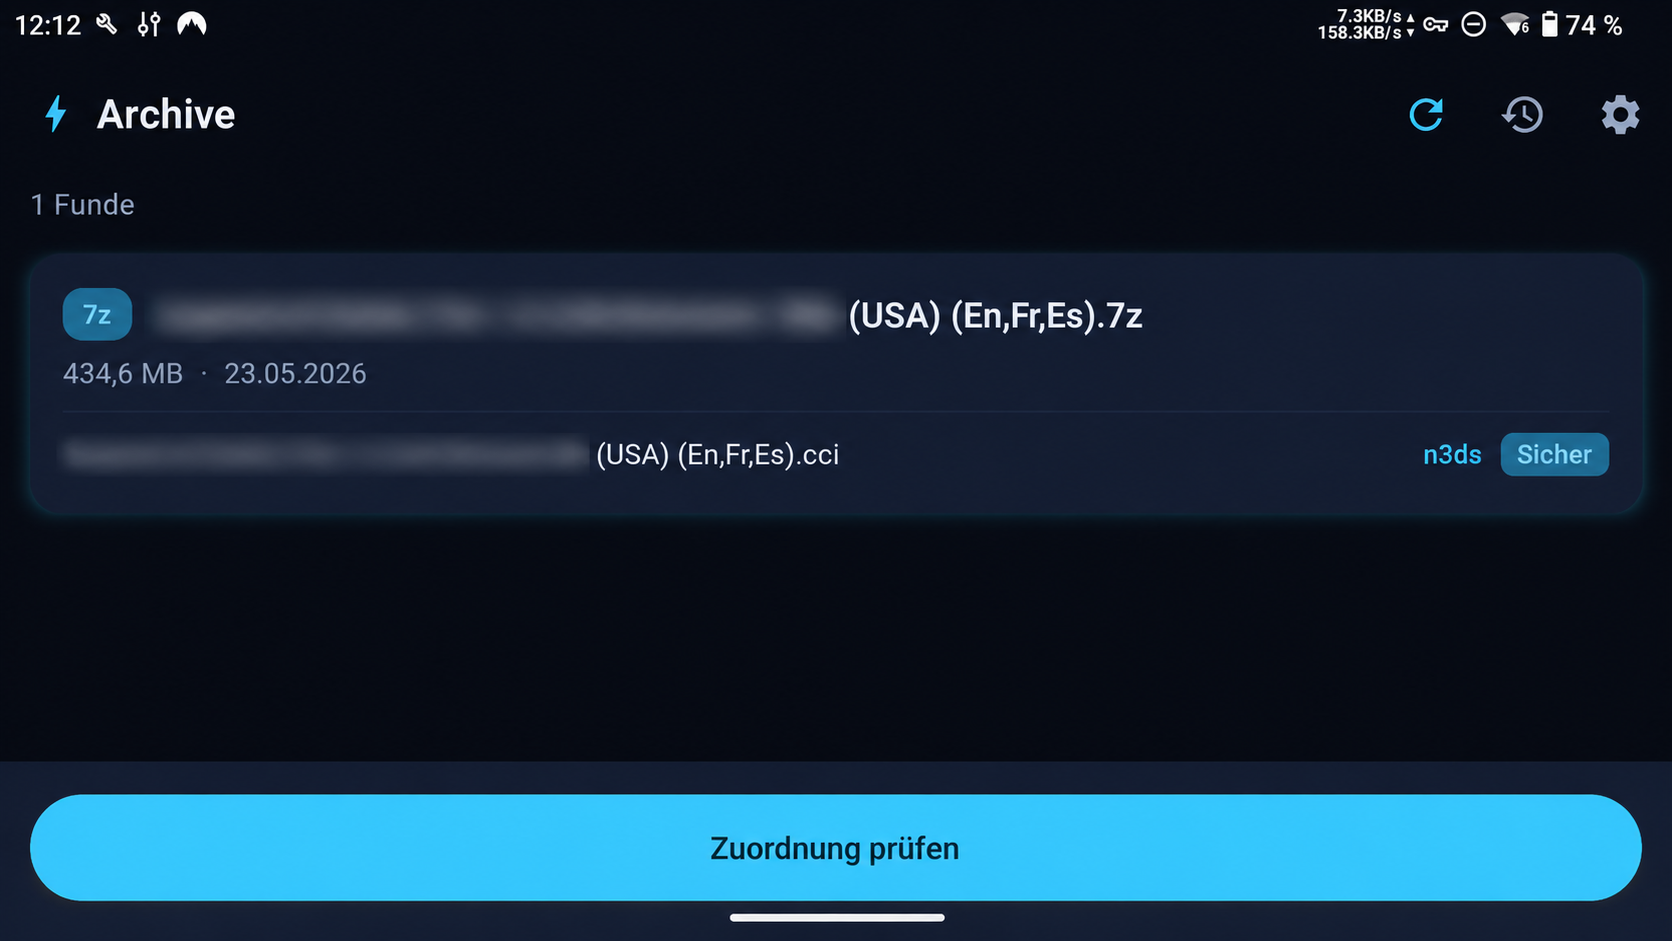
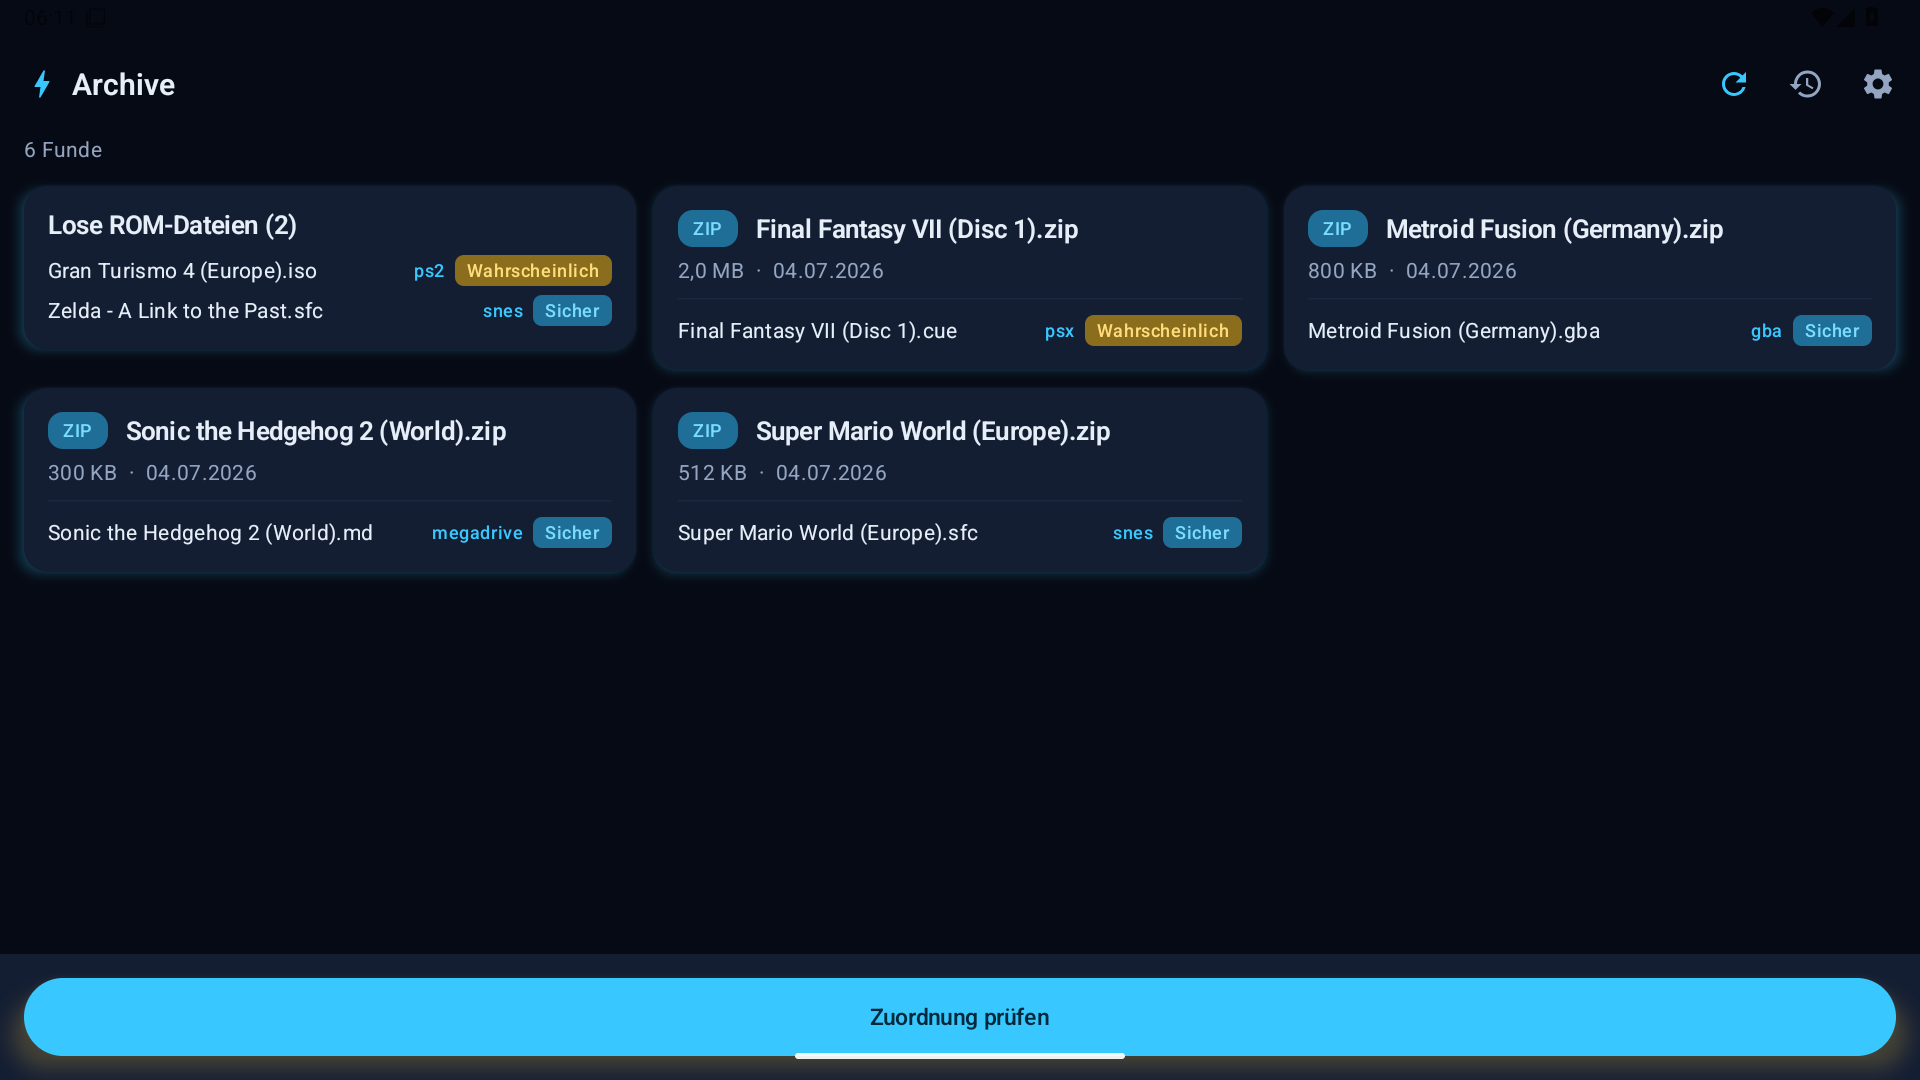
Docs: zweisprachiges How-to + frische Emulator-Screenshots (v0.8, Landscape)
- docs/HOWTO.md: Schritt-fuer-Schritt-Anleitung DE/EN (5 Schritte,
  Confidence-Tabelle, Gut-zu-wissen-Block) - verlinkbar fuer Reddit & Co.
- README (DE/EN): prominenter Link auf das How-to
- Screenshots neu aus dem Emulator (1920x1080 Landscape, Deutsch):
  Setup (neu), Scan mit 3-Spalten-Grid, Zuordnung mit Legende und
  Speicher-Vorschau, Einstellungen mit v0.8-Features

diff --git a/docs/HOWTO.md b/docs/HOWTO.md
@@ -1,0 +1,164 @@
+# How to use Thor ROM Butler / Anleitung
+
+**Deutsch** | [English](#english)
+
+## Deutsch
+
+### Was macht die App?
+
+Thor ROM Butler nimmt dir das Einsortieren von ROMs ab: Du legst neue Spiele
+(als ZIP/7z/RAR oder lose Datei) in einen Ordner, die App erkennt das
+Zielsystem und verschiebt sie in die richtige Ordnerstruktur für
+EmulationStation-DE & Co. — z. B. `roms/gba`, `roms/psx`, `roms/dreamcast/…`
+
+**Wichtigstes Prinzip:** Die App verschiebt **nie** etwas ohne deine
+Bestätigung. Bei Unsicherheit entscheidest immer du.
+
+### Schritt 1: Installieren & einrichten
+
+1. Neueste APK von den [Releases](../../../releases) laden und installieren
+   („Unbekannte Quellen" erlauben)
+2. Beim ersten Start führt dich die App durch drei Schritte:
+   - **Dateizugriff erlauben** (nötig, um Archive zu lesen und ROMs zu verschieben)
+   - **Download-Ordner wählen** — hier landen deine neuen ROMs
+     (z. B. `Download/`)
+   - **ROM-Basisordner wählen** — der Ordner, der deine System-Unterordner
+     enthält (z. B. `ROMs/` mit `gba/`, `psx/`, …). Darf auch auf der
+     **SD-Karte** liegen! Fehlende Ordner kann die App selbst anlegen.
+
+<img src="screenshots/setup.png" alt="Setup" width="600">
+
+### Schritt 2: ROMs aufs Gerät bringen
+
+Egal wie: Browser-Download, vom PC per USB kopiert, Telegram, … — Hauptsache,
+die Dateien landen im gewählten Download-Ordner. Gepackt (ZIP, 7z, RAR4) oder
+ungepackt, beides funktioniert. Weitere Quellordner kannst du in den
+Einstellungen ergänzen.
+
+### Schritt 3: Scannen
+
+Die App durchsucht den Ordner und analysiert jeden Fund — bei Archiven
+**ohne sie zu entpacken**. Auf jeder Karte siehst du, welche ROMs erkannt
+wurden.
+
+<img src="screenshots/archive-scan.png" alt="Scan" width="600">
+
+### Schritt 4: Zuordnung prüfen
+
+Jedes ROM bekommt eine Einschätzung:
+
+| Farbe | Bedeutung | Was du tun musst |
+|-------|-----------|------------------|
+| 🔵 **Sicher** | Eindeutig erkannt (Endung/Magic Bytes) | Nichts — Ziel ist vorbelegt |
+| 🟡 **Wahrscheinlich** | Starker Hinweis, aber keine Garantie | Vorschlag antippen zum Bestätigen |
+| ⚪ **Unbekannt** | Keine sichere Zuordnung möglich | System selbst wählen |
+
+Mit „Alle übernehmen" bestätigst du alle gelben Vorschläge auf einmal.
+Duplikate werden erkannt und übersprungen, außer du wählst „Ersetzen".
+
+<img src="screenshots/review.png" alt="Zuordnung" width="600">
+
+### Schritt 5: Einsortieren
+
+Ein Tipp auf **„n ROMs einsortieren"** — die App entpackt bzw. verschiebt
+alles in die richtigen Systemordner (mit Fortschrittsbalken, auch bei
+ausgeschaltetem Display). Vollständig verarbeitete Archive werden aus dem
+Download-Ordner entfernt (abschaltbar, optional in einen Papierkorb).
+
+Jede Aktion steht im **Log** — inklusive **Rückgängig**, falls du es dir
+anders überlegst.
+
+### Gut zu wissen
+
+- **SD-Karte**: Downloads intern, ROMs auf SD? Kein Problem — die App kopiert
+  verifiziert über Speichergrenzen hinweg.
+- **Wächter-Modus** (Einstellungen): überwacht den Download-Ordner im
+  Hintergrund und meldet neue Funde per Benachrichtigung.
+- **Arcade/MAME-Sets** bleiben gepackt und werden als Ganzes verschoben.
+- **Eigene Ordnernamen** (z. B. `ps1` statt `psx`): Einstellungen →
+  „Systemordner anpassen".
+- **Updates**: Einstellungen → „Auf Updates prüfen", oder via
+  [Obtainium](https://github.com/ImranR98/Obtainium).
+
+<img src="screenshots/settings.png" alt="Einstellungen" width="600">
+
+---
+
+## English
+
+### What does the app do?
+
+Thor ROM Butler sorts your ROMs for you: drop new games (as ZIP/7z/RAR or
+loose files) into a folder, the app detects the target system and moves them
+into the right folder structure for EmulationStation-DE & co. — e.g.
+`roms/gba`, `roms/psx`, `roms/dreamcast/…`
+
+**Core principle:** the app **never** moves anything without your
+confirmation. When in doubt, you decide.
+
+### Step 1: Install & set up
+
+1. Download the latest APK from the [releases](../../../releases) and install
+   it (allow unknown sources)
+2. On first launch the app walks you through three steps:
+   - **Allow file access** (needed to read archives and move ROMs)
+   - **Choose the download folder** — where your new ROMs arrive
+     (e.g. `Download/`)
+   - **Choose the ROM base folder** — the folder containing your per-system
+     subfolders (e.g. `ROMs/` with `gba/`, `psx/`, …). It can live on the
+     **SD card**! Missing folders can be created by the app.
+
+<img src="screenshots/setup.png" alt="Setup" width="600">
+
+### Step 2: Get ROMs onto the device
+
+Any way you like: browser download, copied from a PC over USB, Telegram, … —
+as long as the files end up in your chosen download folder. Zipped (ZIP, 7z,
+RAR4) or loose, both work. Additional source folders can be added in the
+settings.
+
+### Step 3: Scan
+
+The app scans the folder and analyzes every find — archives are inspected
+**without extracting them**. Each card shows which ROMs were detected.
+
+<img src="screenshots/archive-scan.png" alt="Scan" width="600">
+
+### Step 4: Review
+
+Every ROM gets an honest confidence rating:
+
+| Color | Meaning | What you do |
+|-------|---------|-------------|
+| 🔵 **Certain** | Unambiguous (extension/magic bytes) | Nothing — target is prefilled |
+| 🟡 **Probable** | Strong hint, no guarantee | Tap the suggestion to confirm |
+| ⚪ **Unknown** | No reliable match | Pick the system yourself |
+
+"Accept all" confirms every yellow suggestion at once. Duplicates are
+detected and skipped unless you opt into replacing them.
+
+<img src="screenshots/review.png" alt="Review" width="600">
+
+### Step 5: Sort
+
+Tap **"Sort in n ROMs"** — the app extracts/moves everything into the right
+system folders (with a progress bar, even with the screen off). Fully
+processed archives are removed from the download folder (optional, can also
+go to a trash folder instead).
+
+Every action is recorded in the **log** — including **undo** if you change
+your mind.
+
+### Good to know
+
+- **SD card**: downloads on internal storage, ROMs on SD? No problem — the
+  app copies with verification across storage boundaries.
+- **Watcher mode** (settings): monitors the download folder in the background
+  and notifies you about new finds.
+- **Arcade/MAME sets** stay zipped and are moved as a whole.
+- **Custom folder names** (e.g. `ps1` instead of `psx`): Settings →
+  "Customize system folders".
+- **Updates**: Settings → "Check for updates", or via
+  [Obtainium](https://github.com/ImranR98/Obtainium).
+
+<img src="screenshots/settings.png" alt="Settings" width="600">

diff --git a/README.md b/README.md
@@ -25,6 +25,8 @@ läuft aber auf jedem Android-Smartphone ab Android 13.
 
 > Kostenlos & Open Source. Distribution über GitHub Releases - nicht im Play Store.
 
+📖 **Neu hier? → [Schritt-für-Schritt-Anleitung](docs/HOWTO.md)**
+
 ### Features
 
 - 🔍 **Scanner**: findet ROM-Archive (ZIP, 7z, RAR4) **und lose ROM-Dateien**
@@ -153,6 +155,8 @@ Built for retro gaming handhelds such as **AYN Thor / Odin** and
 newer.
 
 > Free & open source. Distributed through GitHub Releases - not through the Play Store.
+
+📖 **New here? → [Step-by-step guide](docs/HOWTO.md#english)**
 
 ### Features
 